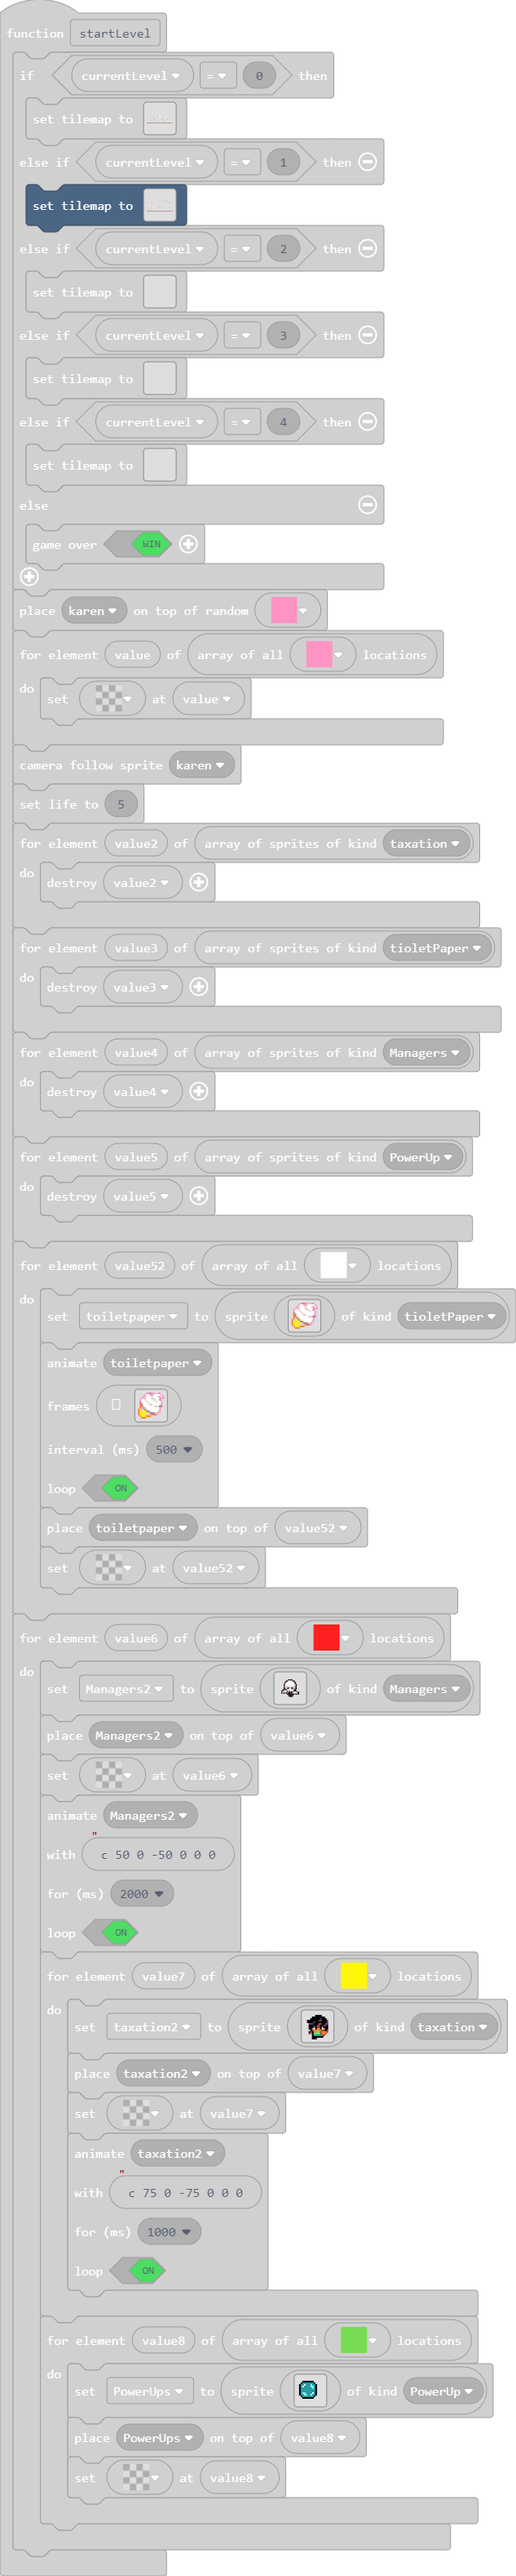
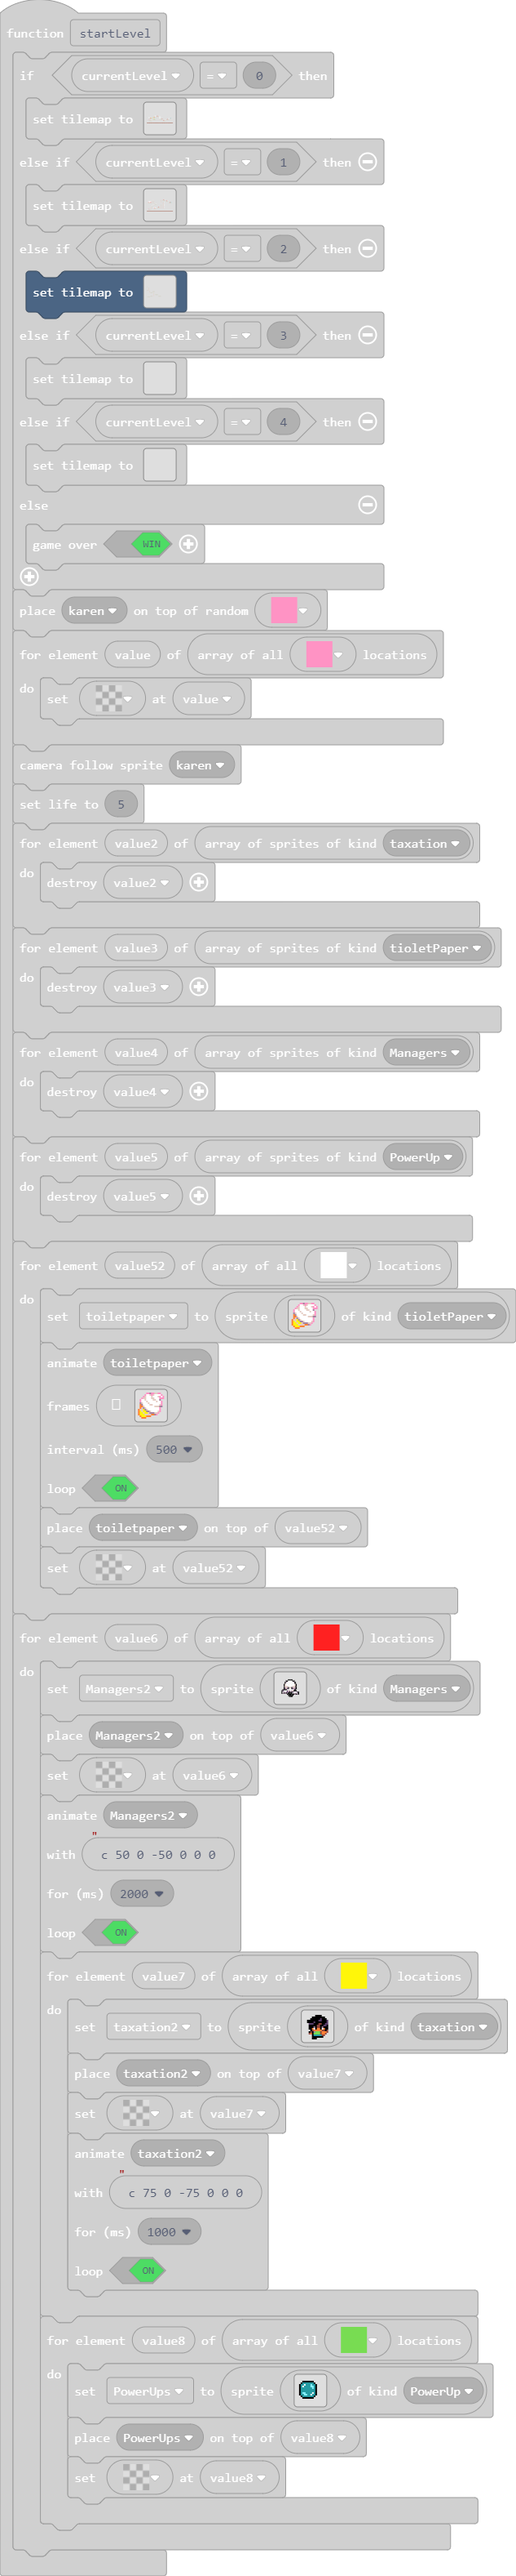
Update main.blocks, main.ts

Changed region(s): [[0.03, 0.0621, 0.3602, 0.1243]]

diff --git a/main.ts b/main.ts
@@ -218,26 +218,35 @@ function startLevel () {
         ))
     } else if (currentLevel == 2) {
         tiles.setTilemap(tiles.createTilemap(
-            hex`1000100000000000000000000000000000000000000000000000000000000000000000000000000000000000000000000000000000000000000000000000000000000000000000000000000000000000000000000000000000000000000000000000000000000000000000000000000000000000000000000000000000000000000000000000000000000000000000000000000000000000000000000000000000000000000000000000000000000000000000000000000000000000000000000000000000000000000000000000000000000000000000000000000000000000000000000000000000000000000000000000000000000000000000000000000000000000`,
+            hex`320019000000000000000000000000000000000000000000000000000000000000000000000000000000000000000000000000000000000000000000000000000000000000000000000000000000000000000000000000000000000000000000000000000000000000000000000000000000000000000000000000000000000000000000000000000000000000000000000000000000000000000800000000000000000000000000000000000000000000000000000000000000000000000000000000000000000000000000000000000000000000000000000000000000000000000000000000000000000000000000000000000000000000000000000000000008000000000000000000000000000000000000000000000000000000000000000000000000000000000000000000000000000900000000000000000000000000000000000000000000000000000000000000000000000000000000000000000000000000090000000000000000000000000000000000000000000000000000000000000000000000000000000000000000000000000009000000000000000000000000000000000000000000000000000000000000000000000000000000000000000000000000000900000000000000000000000000000000000000000000000000000000000000000000000000000000000000000000080800090000000000000000000000000000000000000000000000000000000000000000000000000000000000000000000000000000000800000000000000000000000000000000000000000000000000000000000000000000000000000000000000000000000000090000000000080808080000000000000000000000000000000000000000000000000000000000000000000000000000000009000000000000000000000000000000000000000000000000000000000000000000000000000000000000000000000000000900080808080000000000000000000000000000000000000000000000000000000000000000000000000000000000000000000000000000000008000000000000000000000000000000000000000000000000000000000000000000000000000000000000000000000000000900000000000000000000000000000000000000000000000000000000000000000000000000000000000000000000000000090000000000000000000000000000000000000000000000000000000000000000000000000000000000000000000000000009000008080808080000000000000000000000000000000000000000000000000000000000000000000000000000000000000900000000000000000000000000000000000000000000000000000000000000000000000000000000000000000000000000090000000000000000000000000000000000000000000000000000000000000000000000000000000000000008080808000009000000000000000008080808080000000000000000000000000000000000000000000000000808080808000000000000000000000000000000000000000000000000000000000000000000000000000000000000000000000000000000000000000000000000000000000000000000000000000000000000000000000000000000000000000000000000000000000000000000000000000000000000000000000000000000000000000000000000000000000000000000000000`,
             img`
-. . . . . . . . . . . . . . . . 
-. . . . . . . . . . . . . . . . 
-. . . . . . . . . . . . . . . . 
-. . . . . . . . . . . . . . . . 
-. . . . . . . . . . . . . . . . 
-. . . . . . . . . . . . . . . . 
-. . . . . . . . . . . . . . . . 
-. . . . . . . . . . . . . . . . 
-. . . . . . . . . . . . . . . . 
-. . . . . . . . . . . . . . . . 
-. . . . . . . . . . . . . . . . 
-. . . . . . . . . . . . . . . . 
-. . . . . . . . . . . . . . . . 
-. . . . . . . . . . . . . . . . 
-. . . . . . . . . . . . . . . . 
-. . . . . . . . . . . . . . . . 
+. . . . . . . . . . . . . . . . . . . . . . . . . . . . . . . . . . . . . . . . . . . . . . . . . . 
+. . . . . . . . . . . . . . . . . . . . . . . . . . . . . . . . . . . . . . . . . . . . . . . . . . 
+. . . . . . . . . . . . . . . . . . . . . . . . . . . . . . . . . . . . . . . . . . . . . . . . . . 
+. . . . . . . . . . . . . . . . . . . . . . . . . . . . . . . . . . . . . . . . . . . . . . . . . . 
+. . . . . . . . . . . . . . . . . . . . . . . . . . . . . . . . . . . . . . . . . . . . . . . . . . 
+. . . . . . . . . . . . . . . . . . . . . . . . . . . . . . . . . . . . . . . . . . . . . . . . . . 
+. . . . . . . . . . . . . . . . . . . . . . . . . . . . . . . . . . . . . . . . . . . . . . . . . . 
+. . . . . . . . . . . . . . . . . . . . . . . . . . . . . . . . . . . . . . . . . . . . . . . . . . 
+. . . . . . . . . . . . . . . . . . . . . . . . . . . . . . . . . . . . . . . . . . . . . . . . . . 
+. . . . . . . . . . . . . . . . . . . . . . . . . . . . . . . . . . . . . . . . . . . . . . . . . . 
+. . . . . . . . . . . . . . . . . . . . . . . . . . . . . . . . . . . . . . . . . . . . . . . . . . 
+. . . . . . . . . . . . . . . . . . . . . . . . . . . . . . . . . . . . . . . . . . . . . . . . . . 
+. . . . . . . . . . . . . . . . . . . . . . . . . . . . . . . . . . . . . . . . . . . . . . . . . . 
+. . . . . . . . . . . . . . . . . . . . . . . . . . . . . . . . . . . . . . . . . . . . . . . . . . 
+. . . . . . . . . . . . . . . . . . . . . . . . . . . . . . . . . . . . . . . . . . . . . . . . . . 
+. . . . . . . . . . . . . . . . . . . . . . . . . . . . . . . . . . . . . . . . . . . . . . . . . . 
+. . . . . . . . . . . . . . . . . . . . . . . . . . . . . . . . . . . . . . . . . . . . . . . . . . 
+. . . . . . . . . . . . . . . . . . . . . . . . . . . . . . . . . . . . . . . . . . . . . . . . . . 
+. . . . . . . . . . . . . . . . . . . . . . . . . . . . . . . . . . . . . . . . . . . . . . . . . . 
+. . . . . . . . . . . . . . . . . . . . . . . . . . . . . . . . . . . . . . . . . . . . . . . . . . 
+. . . . . . . . . . . . . . . . . . . . . . . . . . . . . . . . . . . . . . . . . . . . . . . . . . 
+. . . . . . . . . . . . . . . . . . . . . . . . . . . . . . . . . . . . . . . . . . . . . . . . . . 
+. . . . . . . . . . . . . . . . . . . . . . . . . . . . . . . . . . . . . . . . . . . . . . . . . . 
+. . . . . . . . . . . . . . . . . . . . . . . . . . . . . . . . . . . . . . . . . . . . . . . . . . 
+. . . . . . . . . . . . . . . . . . . . . . . . . . . . . . . . . . . . . . . . . . . . . . . . . . 
 `,
-            [myTiles.tile0,myTiles.tile1,myTiles.tile2,myTiles.tile3,myTiles.tile4,sprites.dungeon.collectibleInsignia,myTiles.tile5],
+            [myTiles.tile0,myTiles.tile1,myTiles.tile2,myTiles.tile3,myTiles.tile4,sprites.dungeon.collectibleInsignia,myTiles.tile5,sprites.castle.tilePath1,sprites.castle.tilePath2,sprites.castle.tilePath5],
             TileScale.Sixteen
         ))
     } else if (currentLevel == 3) {
